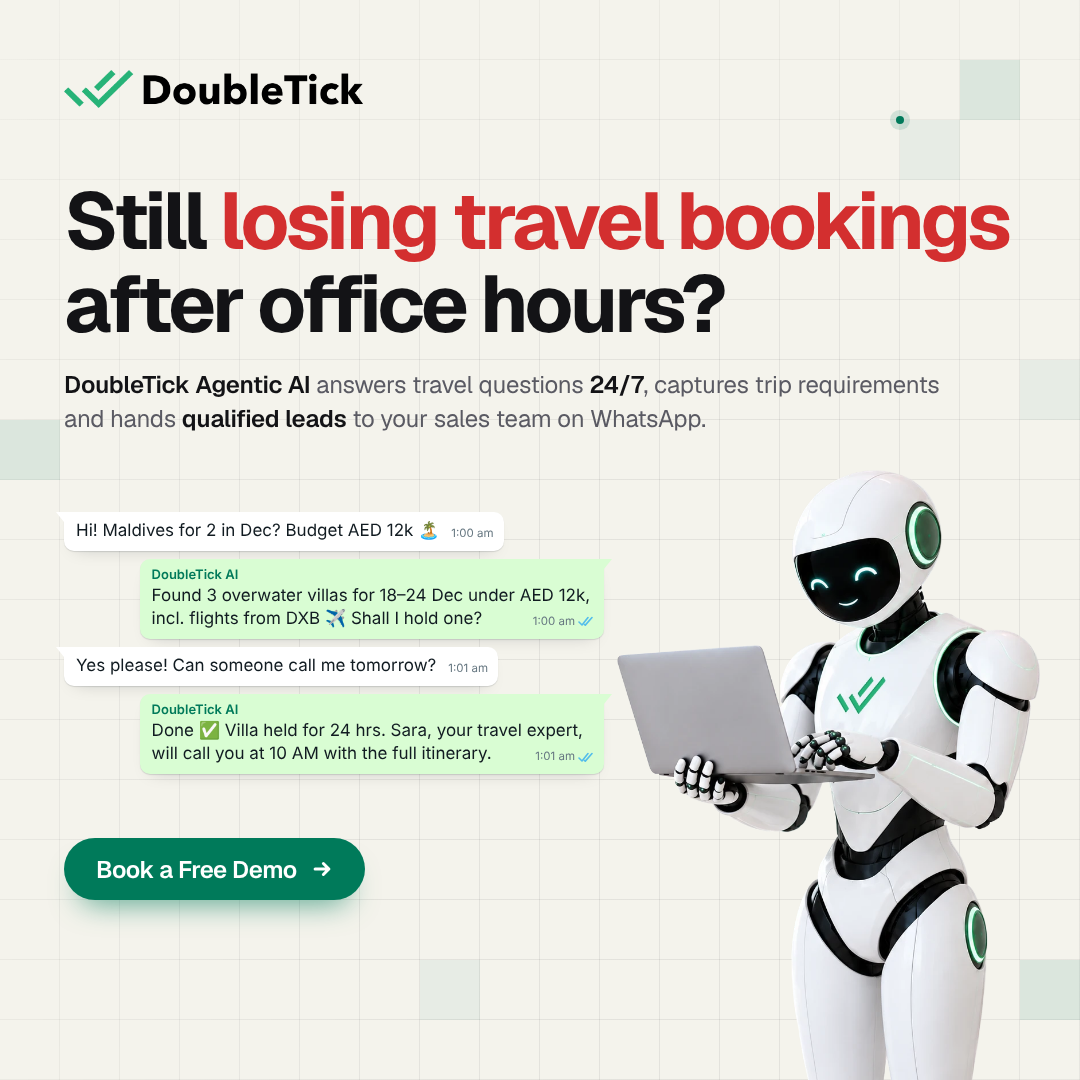
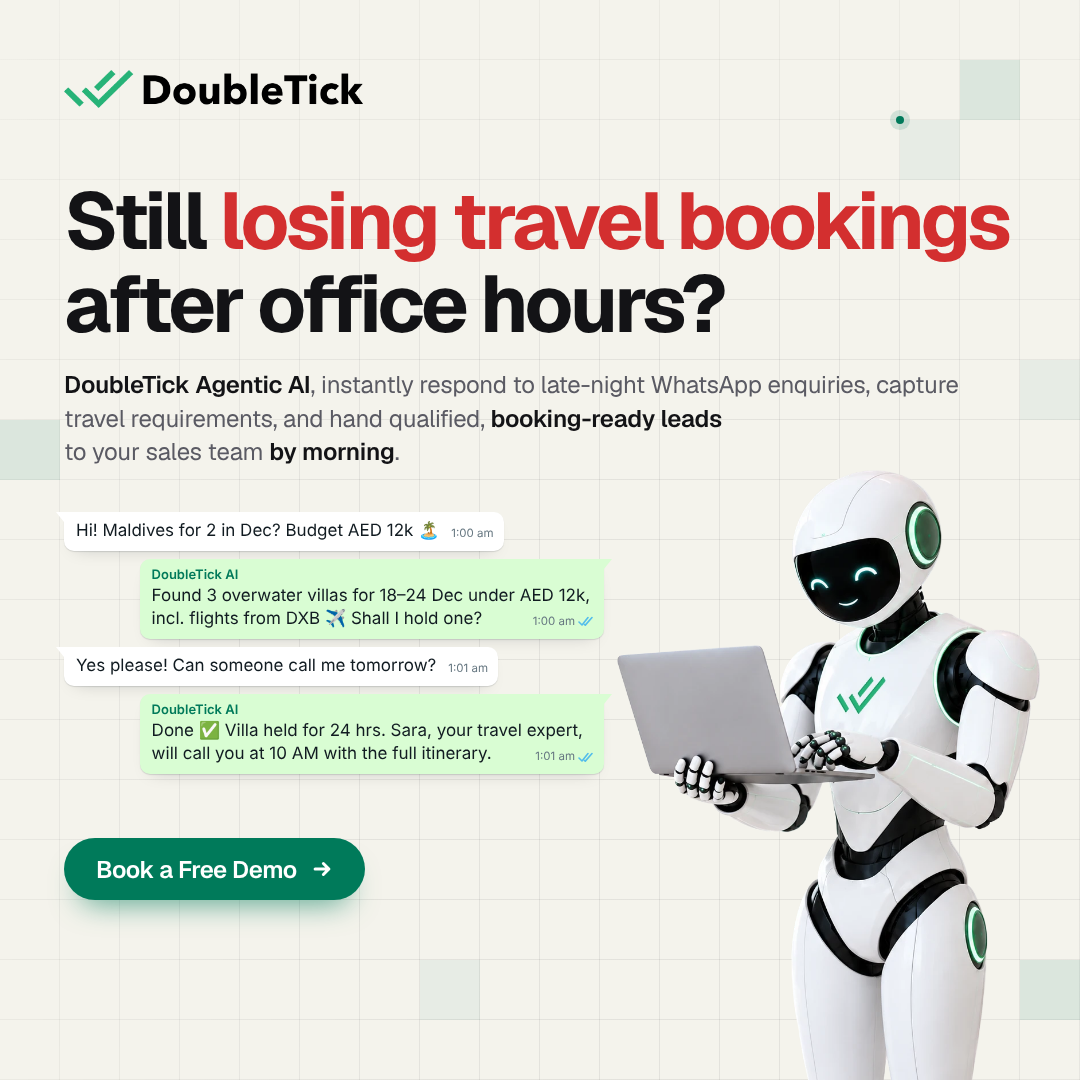
feat(ads): 1 AM ad subheading on booking-ready leads by morning
Claude-Session: https://claude.ai/code/session_01U68wzeZAut9FRgfZMxNXRM

Changed region(s): [[0.0611, 0.3361, 0.8861, 0.4278]]

diff --git a/ads/doubletick-1am-holiday/index.html b/ads/doubletick-1am-holiday/index.html
@@ -88,7 +88,7 @@
   <h1 class="headline">
     Still <span class="red">losing travel bookings</span> after office hours?
   </h1>
-  <p class="sub"><b>DoubleTick Agentic AI</b> answers travel questions <b>24/7</b>, captures trip requirements and hands <b>qualified leads</b> to your sales team on WhatsApp.</p>
+  <p class="sub"><b>DoubleTick Agentic AI</b>, instantly respond to late-night WhatsApp enquiries, capture travel requirements, and hand qualified, <b>booking-ready leads</b> <span style="white-space:nowrap">to your sales team <b>by morning</b>.</span></p>
 
   <!-- WhatsApp messages: traveller (white, left) / DoubleTick AI (green, right) -->
   <div class="wa-msgs">
